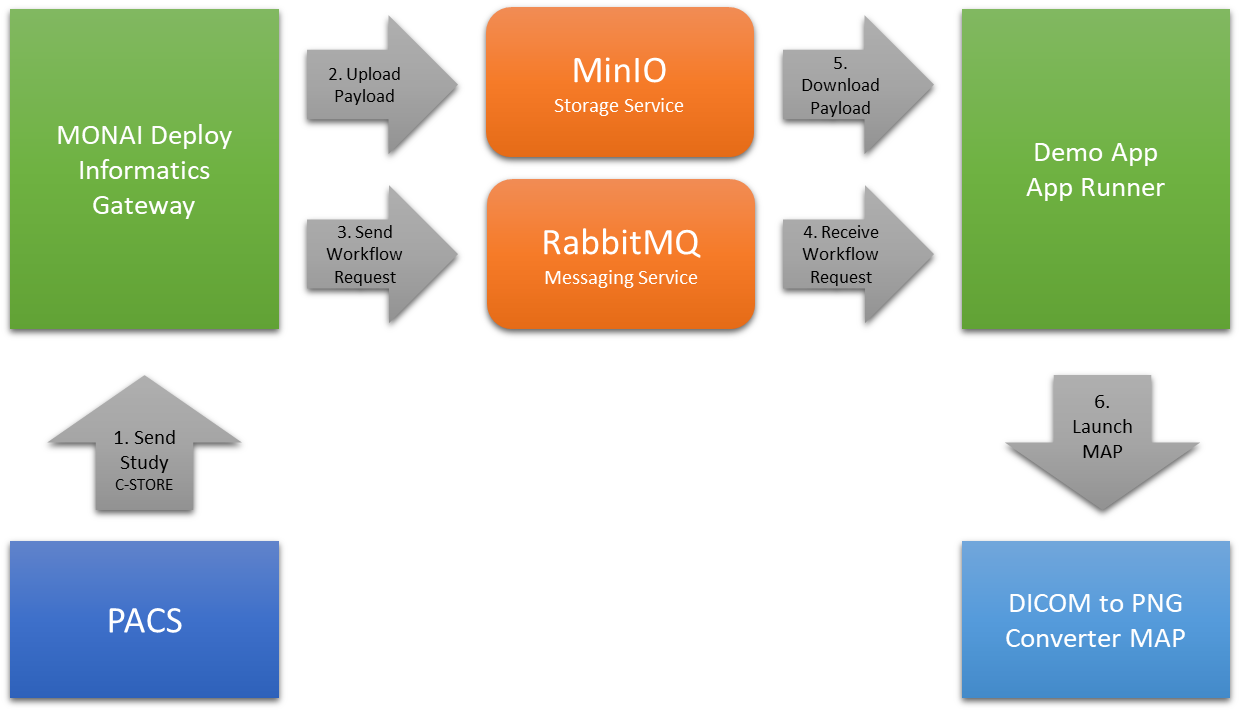
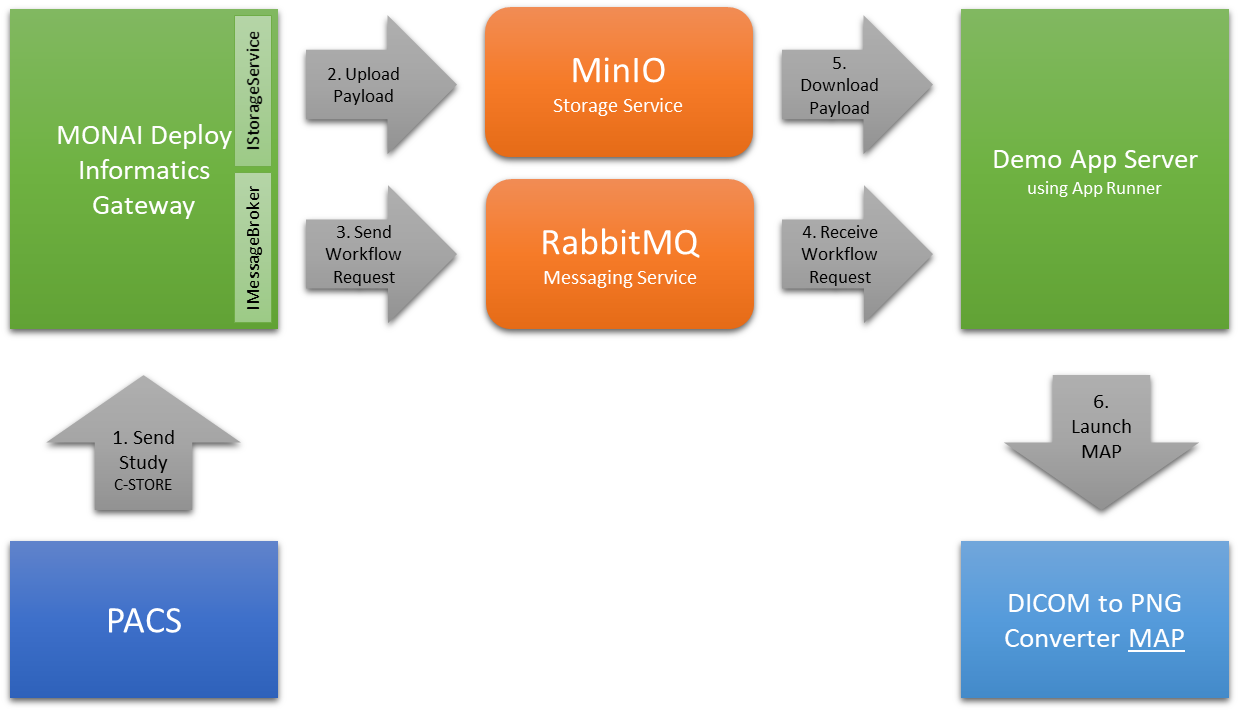
update redme & diagram

diff --git a/demos/app_runner/README.md b/demos/app_runner/README.md
@@ -7,7 +7,7 @@ This demo shows how an application integrates with the MONAI Deploy Informatics 
 
 ## Requirements
 
-- MONAI Deploy Informatics Gateway 0.1.0+
+- MONAI Deploy Informatics Gateway 0.1.1+
 - MONAI Deploy App SDK 0.2.1+
   - A MAP from the [examples](https://github.com/Project-MONAI/monai-deploy-app-sdk/tree/main/examples/apps/) or BYO MAP.
 - RabbitMQ configured and running
@@ -29,6 +29,22 @@ This demo shows how an application integrates with the MONAI Deploy Informatics 
 5. python app.py
 
 **Notes**: For MONAI Deploy App SDK 0.2.1, set `ignore_json` to `false` in the `config.json` file so DICOM JSON files are not downloaded.
+
+## Job Directory Structure
+
+Both retrieved input dataset and MAP generated output are stored under the `jobs/` directory which is configurable in the
+`config.json` file under `working_dir`.
+
+A subdirectory is created for each request received using the `correlation_id` specified in the payload.
+Given that one or more workflows can be specified in the payload, output generated from each MAP is stored under `jobs/{correlation_id}/output/{map_name}`.
+
+Sample output of `jobs` directory:
+```
+└── db61c4fc-b84e-4255-b40a-60254f93ca6f (correlation_id of the request)
+    ├── input
+    └── output
+        └── dcm-to-img-latest (name of the workflow/MAP)
+```
 
 ## Other Ideas
 
